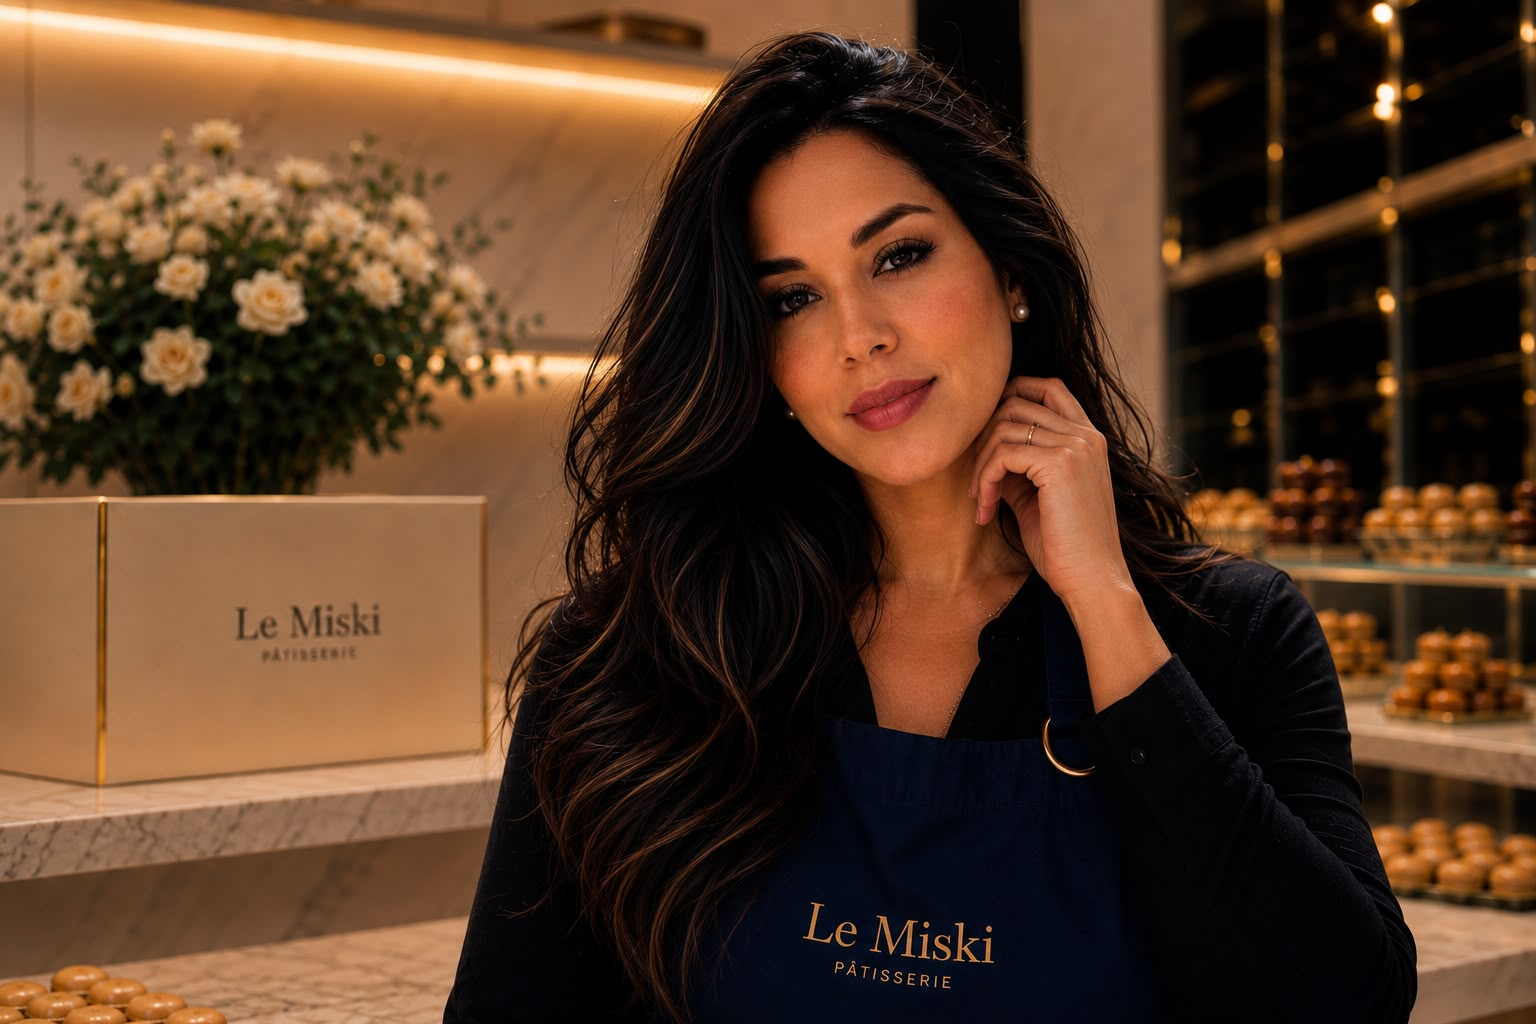
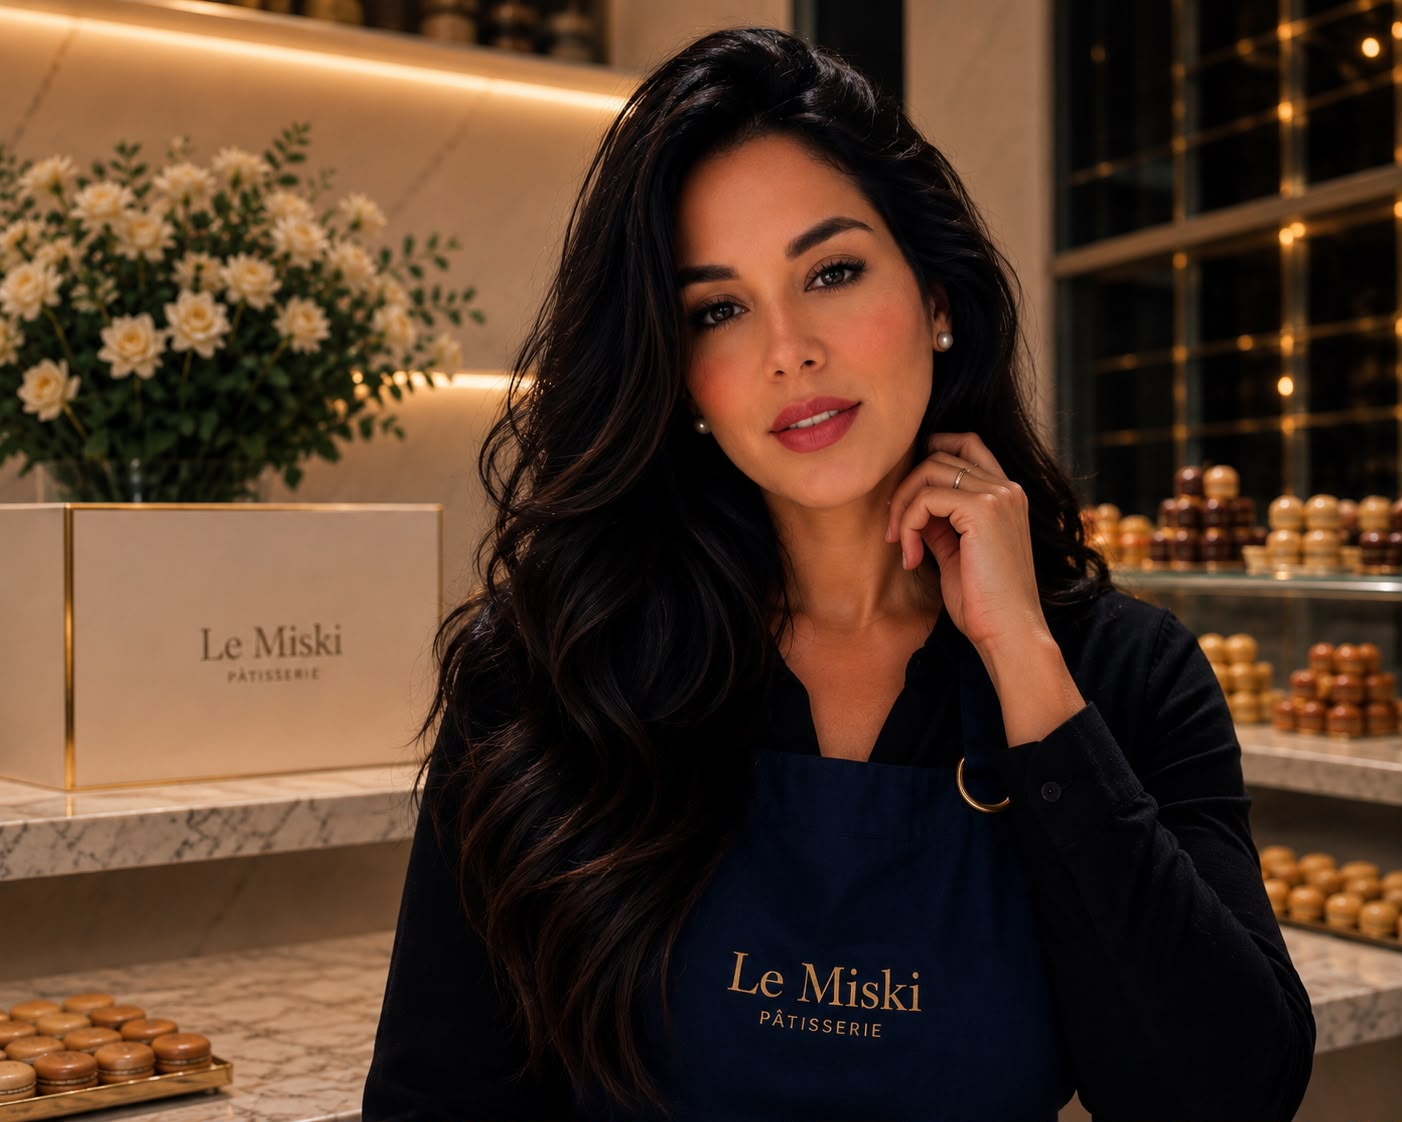
Ampliar encuadre de foto de Marisol

diff --git a/quienes-somos/index.html b/quienes-somos/index.html
@@ -12,7 +12,7 @@
     :root{--ink:#092040;--cream:#fffaf4;--paper:#f7eee2;--gold:#b88a38;--rose:#dca8b8;--line:rgba(9,32,64,.14);--muted:#5f6470}*{box-sizing:border-box}html{scroll-behavior:smooth}body{margin:0;background:var(--cream);color:var(--ink);font-family:"DM Sans",sans-serif;overflow-x:hidden}a{color:inherit;text-decoration:none}.site-header{min-height:108px;padding:0 6vw;display:flex;align-items:center;justify-content:space-between;border-bottom:1px solid rgba(184,138,56,.7);position:relative}.brand{font:600 clamp(1.65rem,2.6vw,2.15rem)/.9 "Playfair Display",serif;letter-spacing:-.055em}.brand small{display:block;margin-top:.3rem;font:500 .54rem/1.1 "DM Sans",sans-serif;letter-spacing:.22em;text-transform:uppercase;color:var(--gold)}.nav-links{display:flex;align-items:center;gap:clamp(1rem,2.2vw,2.15rem);font-size:.84rem;font-weight:600}.nav-links a{transition:color .2s}.nav-links a:hover,.nav-links a[aria-current="page"]{color:var(--gold)}.nav-links .order{padding:.65rem 1rem;border:1px solid var(--ink);border-radius:999px}.page{max-width:1240px;margin:auto;padding:0 6vw}.eyebrow{display:block;color:var(--gold);font-size:.7rem;font-weight:600;letter-spacing:.18em;text-transform:uppercase}.hero{padding:clamp(4rem,9vw,8.5rem) 0 7rem;display:grid;grid-template-columns:minmax(0,1fr) minmax(340px,.82fr);gap:clamp(2.5rem,7vw,7rem);align-items:center}.hero-copy{max-width:600px}.hero h1,.section-title{font:500 clamp(3.25rem,6.4vw,6.9rem)/.94 "Playfair Display",serif;letter-spacing:-.065em;margin:.85rem 0 1.5rem}.hero p{font:500 clamp(1.1rem,1.7vw,1.45rem)/1.45 "Playfair Display",serif;max-width:450px;margin:0 0 2.25rem;color:#4e5060}.button{display:inline-flex;align-items:center;justify-content:center;min-height:48px;padding:.8rem 1.35rem;background:var(--ink);border:1px solid var(--ink);color:#fffaf4;font-size:.75rem;font-weight:600;letter-spacing:.11em;text-transform:uppercase;transition:transform .2s,background .2s}.button:hover{transform:translateY(-2px);background:#17355c}.hero-image{min-height:clamp(390px,44vw,580px);background:linear-gradient(180deg,rgba(9,32,64,.08),rgba(9,32,64,.36)),url("/amour-pistache.jpeg") center/cover;border-radius:2px;position:relative;overflow:hidden}.hero-image:after{content:"Fotografía de la maison · Próximamente";position:absolute;left:1.25rem;bottom:1.15rem;color:#fffaf4;font-size:.65rem;letter-spacing:.14em;text-transform:uppercase}.story{padding:7rem 0;border-top:1px solid var(--line);display:grid;grid-template-columns:.75fr 1.25fr;gap:clamp(2rem,10vw,10rem)}.story-copy{max-width:690px}.story-copy h2,.founder-copy h2,.promise h2{font:500 clamp(2.35rem,4.6vw,4.65rem)/1 "Playfair Display",serif;letter-spacing:-.055em;margin:.75rem 0 1.5rem}.story-copy p,.founder-copy p{color:var(--muted);font-size:1.02rem;line-height:1.85;margin:0}.placeholder-note{font:500 1.1rem/1.55 "Playfair Display",serif;color:var(--gold);padding-top:1.25rem}.founder{padding:7rem 0;display:grid;grid-template-columns:minmax(300px,.9fr) minmax(0,1fr);gap:clamp(2.5rem,9vw,9rem);align-items:center}.founder-image{min-height:510px;background:linear-gradient(135deg,#eadbc8,#faf4eb);display:flex;align-items:flex-end;padding:2rem;position:relative;overflow:hidden}.founder-image:before{content:"";position:absolute;width:240px;height:240px;border:1px solid rgba(184,138,56,.55);border-radius:50%;right:-64px;top:50px}.founder-image span{position:relative;max-width:210px;color:var(--ink);font:500 1.25rem/1.3 "Playfair Display",serif}.founder-image small{display:block;margin-top:.8rem;font:500 .65rem/1.4 "DM Sans",sans-serif;letter-spacing:.12em;text-transform:uppercase;color:var(--gold)}.philosophy{margin:0 -6vw;padding:7rem 6vw;background:var(--paper)}.philosophy-inner{max-width:1240px;margin:auto}.philosophy-head{display:flex;justify-content:space-between;gap:2rem;align-items:end;margin-bottom:3rem}.philosophy h2{font:500 clamp(2.4rem,4.4vw,4.6rem)/.98 "Playfair Display",serif;letter-spacing:-.06em;margin:.75rem 0 0}.philosophy-head p{max-width:340px;color:var(--muted);line-height:1.65;margin:0}.philosophy-grid{display:grid;grid-template-columns:repeat(4,1fr);border-top:1px solid var(--line);border-left:1px solid var(--line)}.philosophy-card{min-height:245px;padding:1.8rem;border-right:1px solid var(--line);border-bottom:1px solid var(--line)}.philosophy-icon{display:grid;place-items:center;width:2.5rem;height:2.5rem;border:1px solid var(--gold);border-radius:50%;margin-bottom:2.6rem;color:var(--gold);font:500 1.1rem "Playfair Display",serif}.philosophy-card h3{font:500 1.4rem/1.15 "Playfair Display",serif;margin:0 0 .75rem;letter-spacing:-.03em}.philosophy-card p{margin:0;color:var(--muted);font-size:.9rem;line-height:1.65}.promise{max-width:890px;margin:auto;padding:8rem 0;text-align:center}.promise h2{margin:1rem 0 1.6rem}.promise p{max-width:630px;margin:0 auto 2.2rem;color:var(--muted);font:500 1.15rem/1.65 "Playfair Display",serif}.site-footer{padding:2rem 6vw 3rem;background:var(--ink);color:#fffaf4;display:flex;align-items:center;justify-content:space-between;gap:1.5rem;font-size:.78rem}.site-footer .brand{font-size:1.55rem}.site-footer a{color:#edc96f}@media (max-width:850px){.site-header{min-height:94px}.nav-links{gap:.95rem;font-size:.74rem}.hero{grid-template-columns:1fr;padding-top:4rem}.hero-image{min-height:430px}.story{grid-template-columns:1fr;gap:1rem}.founder{grid-template-columns:1fr}.founder-image{min-height:400px}.philosophy-grid{grid-template-columns:repeat(2,1fr)}}@media (max-width:620px){.site-header{min-height:108px;padding:10px 5vw;align-items:center}.brand{font-size:1.45rem}.nav-links{max-width:62%;gap:.5rem .75rem;justify-content:flex-end;flex-wrap:wrap;font-size:.66rem}.nav-links a:not(.order){display:inline}.nav-links .order{font-size:.66rem;padding:.45rem .68rem}.page{padding:0 6vw}.hero{padding-bottom:4.5rem}.hero h1{font-size:3.25rem}.hero-image{min-height:350px}.story,.founder{padding:5rem 0}.philosophy{padding:5rem 6vw}.philosophy-head{display:block}.philosophy-head p{margin-top:1rem}.philosophy-grid{grid-template-columns:1fr}.philosophy-card{min-height:190px}.philosophy-icon{margin-bottom:1.5rem}.promise{padding:5rem 0}.site-footer{align-items:flex-start;flex-direction:column}}
   </style>
   <style>
-    .founder-image{padding:0;background:#e8d8c5}.founder-image:before{display:none}.founder-image img{width:100%;height:100%;position:absolute;inset:0;object-fit:cover;object-position:57% center}.founder-image:after{content:"";position:absolute;inset:0;background:linear-gradient(0deg,rgba(9,32,64,.55),transparent 45%)}.founder-image span{z-index:1;padding:0 2rem 2rem;color:#fffaf4;text-shadow:0 1px 12px rgba(9,32,64,.42)}.founder-image small{color:#edc96f}
+    .founder-image{min-height:0;aspect-ratio:5/4;padding:0;background:#e8d8c5}.founder-image:before{display:none}.founder-image img{width:100%;height:100%;position:absolute;inset:0;object-fit:contain;object-position:center}.founder-image:after{content:"";position:absolute;inset:0;background:linear-gradient(0deg,rgba(9,32,64,.55),transparent 45%)}.founder-image span{z-index:1;padding:0 2rem 2rem;color:#fffaf4;text-shadow:0 1px 12px rgba(9,32,64,.42)}.founder-image small{color:#edc96f}
   </style>
 </head>
 <body>
